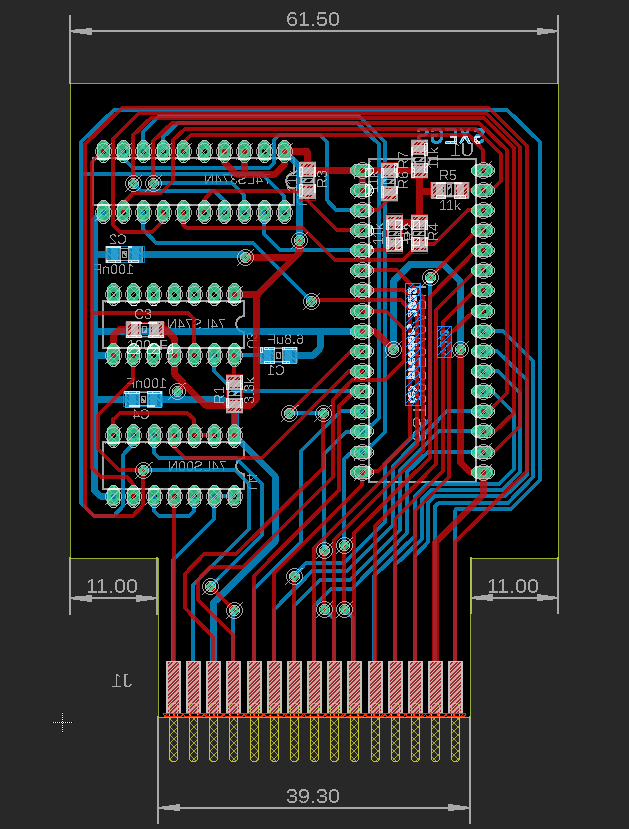
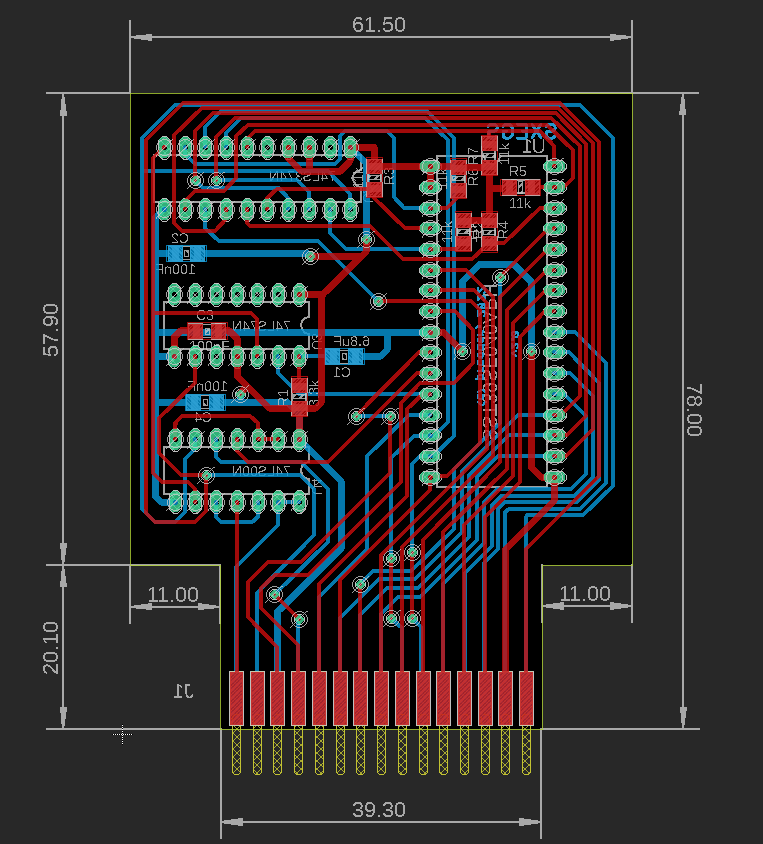
Small changes in README.md

diff --git a/README.md b/README.md
@@ -1,6 +1,6 @@
 # ATARI SXEGS Cartridge
 
-![Board and Housing](photos/Board%20and%20Grey%20Housing.jpg)
+![Grey Cartridge with Red Logo.jpg](photos/Grey%20Cartridge%20with%20Red%20Logo.jpg)
 
 ## Cartridge board and Housing for [ATARI 65XE/130XE/800XE](https://en.wikipedia.org/wiki/Atari_8-bit_family) 8-bit computers based on [SST39SF040](https://www.microchip.com/en-us/product/SST39SF040) CMOS multi-purpose **Flash memory** chip.
 
@@ -19,7 +19,7 @@ Files:
 - ***[ATARI-Cartridge-v3-Body.stl](ATARI-Cartridge-v3-Body.stl)*** - 3D-model of cartridge housing body
 - ***[ATARI-Cartridge-v3-Cover.stl](ATARI-Cartridge-v3-Cover.stl)*** - 3D-model of cartridge housing cover
 
-**[Ready to order project on PCBWay here](https://www.pcbway.com/project/shareproject/W256652ASG3_XEGS_Cartridge_2022_11_05_4d701522.html)**
+**[Ready to order project on PCBWay here](https://www.pcbway.com/project/shareproject/ATARI_8bit_SXEGS_Cartridge_Shrinked_Version_2022_11_10_3705ed31.html)**
 
 The following DIP chips are required to build a cartridge:
 - SST39SF040 DIP32 (1pcs)
@@ -39,7 +39,7 @@ And you need the ability to program the [SST39SF040](https://www.microchip.com/e
 
 To make a cartridge body, you need the ability to print models on a 3D printer. The model of the cartridge case and its cover is attached.
 
-![Cartridge Housing Model](photos/FreeCAD_View.png)
+![Cartridge Dimensions](photos/Cartridge%20Dimensions.png)
 
 When assembling the case, no additional fasteners, screws or glue are required. The case cover simply snaps into the body of the case, securing the PCB.
 
@@ -56,6 +56,7 @@ Instructions for creating a binary firmware file to flash in SST39SF040:
 [![Black Cartridge](photos/small/Black%20Cartridge.jpg)](photos/Black%20Cartridge.jpg)
 [![Grey Cartridge with Red Logo](photos/small/Grey%20Cartridge%20with%20Red%20Logo.jpg)](photos/Grey%20Cartridge%20with%20Red%20Logo.jpg)
 [![Assembled PCB 2](photos/small/Assembled%20PCB%202.jpg)](photos/Assembled%20PCB%202.jpg)
+[![PCB Dimensions](photos/small/PCB%20Dimensions.png)](photos/PCB%20Dimensions.png)
 [![Cartridge Housing Body](photos/small/Cartridge%20Housing%20Body.png)](ATARI-Cartridge-v3-Body.stl)
 [![Cartridge Housing Cover](photos/small/Cartridge%20Housing%20Cover.png)](ATARI-Cartridge-v3-Cover.stl)
 
